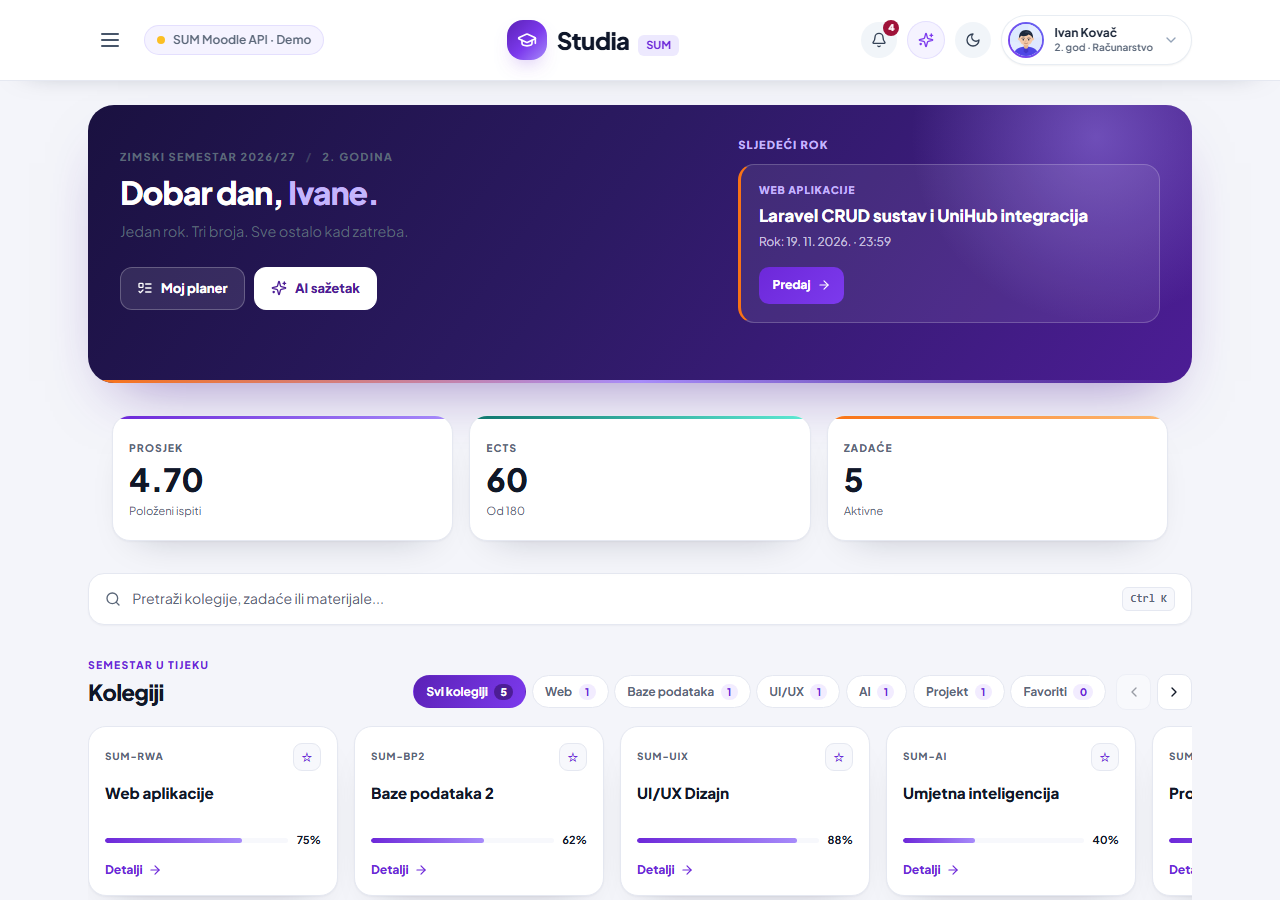
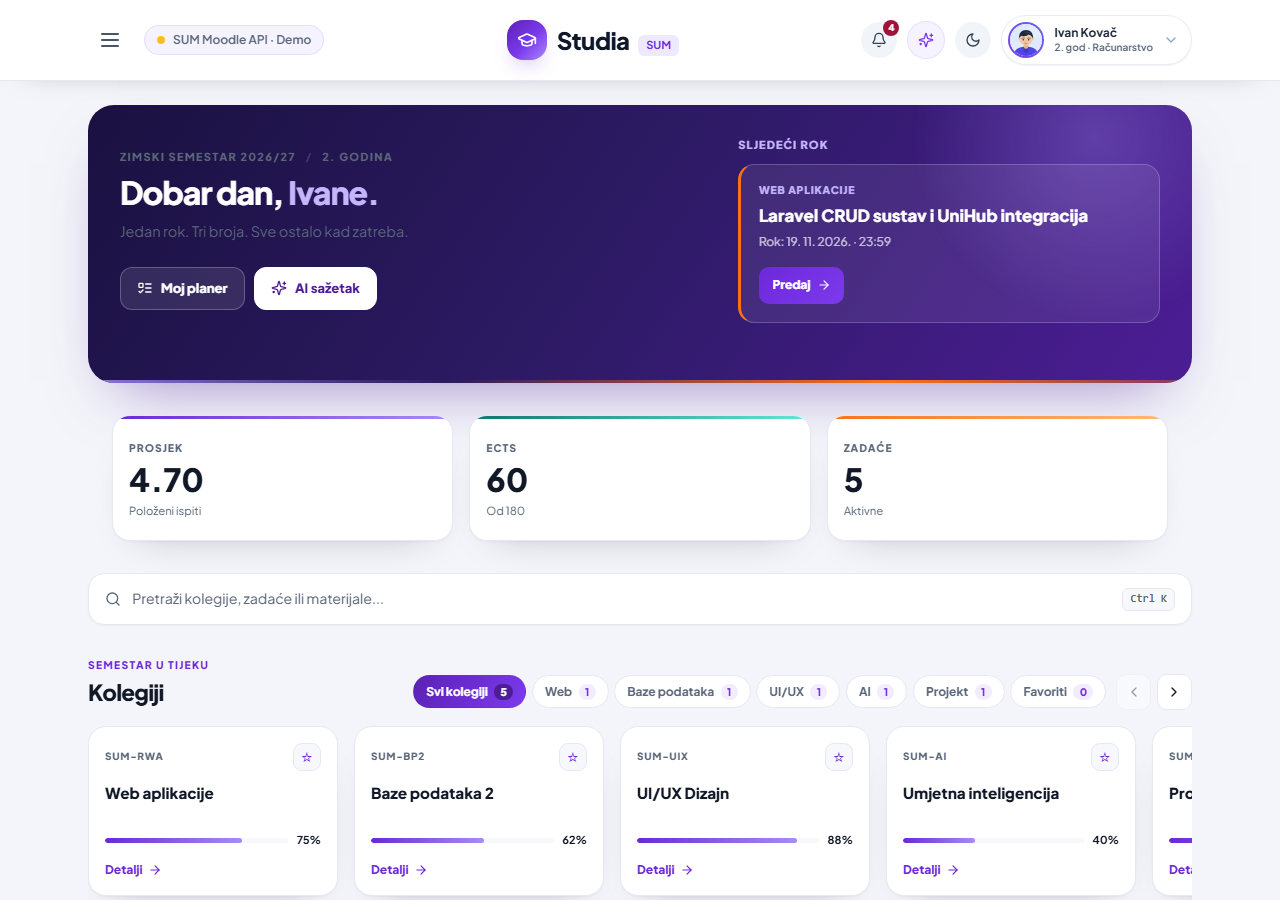
Dodaj animacije i mikro-interakcije za življu aplikaciju

diff --git a/assets/css/style.css b/assets/css/style.css
@@ -1312,3 +1312,188 @@ html:not(.dark) main [class*="text-emerald-600"] {
     flex-basis: 220px;
   }
 }
+
+/* =========================================================
+   STUDIA 3 — pokret i sitni detalji.
+   Sve je isključivo transform/opacity (osim kratnih prijelaza)
+   i poštuje globalni prefers-reduced-motion blok.
+   ========================================================= */
+
+@keyframes studia-rise {
+  from { opacity: 0; transform: translateY(14px); }
+  to { opacity: 1; transform: translateY(0); }
+}
+
+@keyframes studia-glow {
+  from { transform: translate3d(0, 0, 0) scale(1); opacity: 0.7; }
+  to { transform: translate3d(-2rem, 1.5rem, 0) scale(1.14); opacity: 1; }
+}
+
+@keyframes studia-slide {
+  from { transform: translateX(-25%); }
+  to { transform: translateX(25%); }
+}
+
+@keyframes studia-icon-pop {
+  0% { transform: scale(1); }
+  45% { transform: scale(1.25) rotate(-8deg); }
+  100% { transform: scale(1); }
+}
+
+@keyframes studia-toast {
+  from { opacity: 0; transform: translateY(10px) scale(0.98); }
+  to { opacity: 1; transform: translateY(0) scale(1); }
+}
+
+@keyframes studia-row {
+  from { opacity: 0; transform: translateX(-8px); }
+  to { opacity: 1; transform: translateX(0); }
+}
+
+/* Postepeni ulazak nadzorne ploče. */
+#view-dashboard .proto-hero__main,
+#view-dashboard .proto-hero__aside,
+#view-dashboard .proto-stat,
+#view-dashboard .proto-search,
+#view-dashboard .proto-section__head,
+#view-dashboard #courses-carousel .course-card,
+#view-dashboard .proto-quick button,
+#view-dashboard .proto-details__summary {
+  animation: studia-rise 0.45s cubic-bezier(0.22, 1, 0.36, 1) both;
+}
+
+#view-dashboard .proto-hero__main { animation-delay: 0.02s; }
+#view-dashboard .proto-hero__aside { animation-delay: 0.1s; }
+#view-dashboard .proto-stat:nth-child(1) { animation-delay: 0.16s; }
+#view-dashboard .proto-stat:nth-child(2) { animation-delay: 0.22s; }
+#view-dashboard .proto-stat:nth-child(3) { animation-delay: 0.28s; }
+#view-dashboard .proto-search { animation-delay: 0.32s; }
+#view-dashboard .proto-section__head { animation-delay: 0.36s; }
+#view-dashboard #courses-carousel .course-card:nth-child(1) { animation-delay: 0.4s; }
+#view-dashboard #courses-carousel .course-card:nth-child(2) { animation-delay: 0.45s; }
+#view-dashboard #courses-carousel .course-card:nth-child(3) { animation-delay: 0.5s; }
+#view-dashboard #courses-carousel .course-card:nth-child(4) { animation-delay: 0.55s; }
+#view-dashboard #courses-carousel .course-card:nth-child(5) { animation-delay: 0.6s; }
+#view-dashboard .proto-quick button:nth-child(1) { animation-delay: 0.5s; }
+#view-dashboard .proto-quick button:nth-child(2) { animation-delay: 0.56s; }
+#view-dashboard .proto-quick button:nth-child(3) { animation-delay: 0.62s; }
+#view-dashboard .proto-quick button:nth-child(4) { animation-delay: 0.68s; }
+#view-dashboard .proto-details__summary { animation-delay: 0.74s; }
+
+/* Hero: lagani sjaj i klizna akcentna linija. */
+.proto-hero::before {
+  animation: studia-glow 12s ease-in-out infinite alternate;
+}
+
+.proto-hero::after {
+  left: -50%;
+  right: -50%;
+  background-image: linear-gradient(90deg, transparent, var(--signal), #a78bfa, transparent, var(--signal), transparent);
+  animation: studia-slide 14s linear infinite;
+}
+
+/* Sažetci: blago podizanje pri hoveru. */
+.proto-stat {
+  transition: transform 0.22s ease, box-shadow 0.22s ease;
+}
+
+.proto-stat:hover {
+  transform: translateY(-5px);
+  box-shadow: 0 24px 46px -24px rgba(76, 29, 149, 0.45);
+}
+
+/* Pretraga: ikona reagira na fokus. */
+.proto-search > svg {
+  transition: transform 0.22s ease, color 0.22s ease;
+}
+
+.proto-search:focus-within > svg {
+  color: var(--primary);
+  transform: rotate(-8deg) scale(1.1);
+}
+
+/* Gumba: kratki "press" i sjaj kartice kolegija. */
+.proto-btn,
+.filter-pill,
+.proto-arrows button {
+  transition: transform 0.16s ease, background-color 0.16s ease, border-color 0.16s ease, color 0.16s ease, box-shadow 0.16s ease;
+}
+
+.proto-btn:active,
+.filter-pill:active,
+.proto-arrows button:active {
+  transform: scale(0.96);
+}
+
+#courses-carousel .course-card {
+  position: relative;
+  overflow: hidden;
+}
+
+#courses-carousel .course-card::after {
+  content: "";
+  position: absolute;
+  inset: 0;
+  background: linear-gradient(115deg, transparent 40%, rgba(255, 255, 255, 0.32) 50%, transparent 60%);
+  transform: translateX(-120%);
+  transition: transform 0.65s ease;
+  pointer-events: none;
+}
+
+#courses-carousel .course-card:hover::after {
+  transform: translateX(120%);
+}
+
+/* Brze veze: strelica i ikona se pomaknu. */
+.proto-quick button svg:first-child {
+  transition: transform 0.24s cubic-bezier(0.22, 1, 0.36, 1);
+}
+
+.proto-quick button:hover svg:first-child {
+  transform: scale(1.1);
+}
+
+.proto-quick__arrow {
+  transition: transform 0.22s ease, color 0.22s ease;
+}
+
+.proto-quick button:hover .proto-quick__arrow {
+  color: var(--primary);
+  transform: translate(3px, -3px);
+}
+
+/* Arhiva: ikona ima blagi sjaj pri hoveru. */
+.proto-details__icon {
+  transition: transform 0.18s ease, box-shadow 0.18s ease;
+}
+
+.proto-details__summary:hover .proto-details__icon {
+  box-shadow: 0 8px 20px -8px rgba(109, 40, 217, 0.75);
+}
+
+/* Promjena pogleda i obavijesti. */
+main section:not(.hidden):not(#view-dashboard) {
+  animation: studia-rise 0.3s ease-out both;
+}
+
+#toast-container > div {
+  animation: studia-toast 0.26s cubic-bezier(0.22, 1, 0.36, 1) both;
+}
+
+/* Planer: redak ulazi, kvadratić "skoči" pri označavanju. */
+#planner-list > li {
+  animation: studia-row 0.26s ease both;
+}
+
+#planner-list > li button[data-todo-toggle] {
+  transition: transform 0.2s cubic-bezier(0.22, 1, 0.36, 1), background-color 0.2s ease, border-color 0.2s ease;
+}
+
+#planner-list > li button[data-todo-toggle]:hover {
+  transform: scale(1.12);
+}
+
+/* Aktivna navigacijska stavka: ikona se kratko "trzne". */
+.studia-nav-item.is-active > svg:first-child {
+  animation: studia-icon-pop 0.5s ease-out both;
+}

diff --git a/assets/js/render.js b/assets/js/render.js
@@ -292,7 +292,47 @@ function renderProfessors() {
   refreshIcons();
 }
 
+/* Broj se animira samo pri prvom prikazu; kasnija sinkronizacija je trenutna. */
+function setAnimatedNumber(el, value, decimals = 0) {
+  if (!el) return;
+  const target = Number(value) || 0;
+  const format = (n) => (decimals ? n.toFixed(decimals) : String(Math.round(n)));
+  const reduced = window.matchMedia && window.matchMedia("(prefers-reduced-motion: reduce)").matches;
+
+  if (el.dataset.counted === "1" || reduced) {
+    el.textContent = format(target);
+    return;
+  }
+
+  el.dataset.counted = "1";
+  const token = Symbol("count");
+  el.__countToken = token;
+  const duration = 750;
+  const started = performance.now();
+
+  const step = (now) => {
+    if (el.__countToken !== token) return;
+    const t = Math.min(1, (now - started) / duration);
+    const eased = 1 - Math.pow(1 - t, 3);
+    el.textContent = format(target * eased);
+    if (t < 1) requestAnimationFrame(step);
+    else el.textContent = format(target);
+  };
+  requestAnimationFrame(step);
+}
+
+/* Pozdrav se prilagođava dobu dana, ime studenta ostaje isto. */
+function updateGreeting() {
+  const heading = $("#focus-heading");
+  if (!heading || !heading.firstChild || heading.firstChild.nodeType !== Node.TEXT_NODE) return;
+  const hour = new Date().getHours();
+  const greeting = hour < 11 ? "Dobro jutro" : hour < 18 ? "Dobar dan" : "Dobra večer";
+  heading.firstChild.textContent = `${greeting}, `;
+}
+
 function renderStats() {
+  updateGreeting();
+
   const average = Math.round(
     COURSES.reduce((sum, course) => sum + course.progress, 0) / COURSES.length
   );
@@ -322,12 +362,9 @@ function renderStats() {
   if (profileLabel) profileLabel.textContent = `${submitted}/${total}`;
   if (profileBar) profileBar.style.width = `${submittedPercent}%`;
 
-  const focusAverage = $("#focus-average");
-  if (focusAverage) focusAverage.textContent = calculateGradeAverage(GRADE_HISTORY).toFixed(2);
-  const focusEcts = $("#focus-ects");
-  if (focusEcts) focusEcts.textContent = String(getCompletedEcts());
-  const focusTasks = $("#focus-tasks");
-  if (focusTasks) focusTasks.textContent = String(getActiveUpcomingCount());
+  setAnimatedNumber($("#focus-average"), calculateGradeAverage(GRADE_HISTORY), 2);
+  setAnimatedNumber($("#focus-ects"), getCompletedEcts());
+  setAnimatedNumber($("#focus-tasks"), getActiveUpcomingCount());
 
   const navBadge = $("#assignments-nav-badge");
   if (navBadge) {

diff --git a/CHANGELOG.md b/CHANGELOG.md
@@ -7,6 +7,7 @@ Format je informativan i temeljen na [Keep a Changelog](https://keepachangelog.c
 ## [Unreleased]
 
 ### Added
+- **Pokret i mikro-interakcije:** postepeni ulazak nadzorne ploče, lagani hero sjaj i klizna akcentna linija, hover reakcije kartica, gumba i brzih veza, animirane obavijesti i planer. Brojači (prosjek, ECTS, zadaće) animiraju se samo pri prvom prikazu, a pozdrav se prilagođava dobu dana. Sve poštuje `prefers-reduced-motion` i koristi isključivo transform/opacity.
 - **Live Moodle podaci u portalu:** proxy sada uz `summary` vraća i normalizirani `data`; `assets/js/live-data.js` preslikava ga u `COURSES`, `GRADE_HISTORY`, `MATERIALS`, `ASSIGNMENTS` i obavijesti, pa grafikoni i kartice koriste stvarne Moodle podatke. Povratak u demo način vraća originalni dataset.
 - Mock Moodle proxy (`scripts/mock-moodle-proxy.js`, `npm run mock:proxy`) za testiranje live toka bez tokena.
 - CI sada pokreće `node scripts/check.mjs` i PHP lint Moodle teme (do sada samo JS sintaksa).

diff --git a/README.md b/README.md
@@ -16,6 +16,7 @@
 - **Novi vizualni sustav:** tamna navigacijska traka, svijetla radna površina, tamni hero s jednim sljedećim rokom i narančastim signalnim akcentom uz violetni primarni (tamni način koristi istu strukturu).
 - **Jedan fokus:** nadzorna ploča prikazuje samo sljedeći rok, prosjek, ECTS i broj aktivnih zadaća. Sve ostalo je u `<details id="dashboard-more">`.
 - **Manje buke:** bočna navigacija ima 7 stavki, bez dupliciranih badgeova; filtari, brze veze i kartice koriste nove, ali jednostavne komponente.
+- **Pokret bez buke:** postepeni ulazak sadržaja, suptilne hover reakcije, animirani brojači i pozdrav prema dobu dana — bez novih podataka i uz poštovanje `prefers-reduced-motion`.
 - **Bez novih ovisnosti:** promjena je isključivo u CSS-u i strukturi nadzorne ploče; svi ID-ovi i testni hookovi su očuvani.
 - **Isti jezik u temi:** `theme/studia/scss/post.scss` koristi istu paletu i akcent, bez novih endpointa ili tokena.
 
